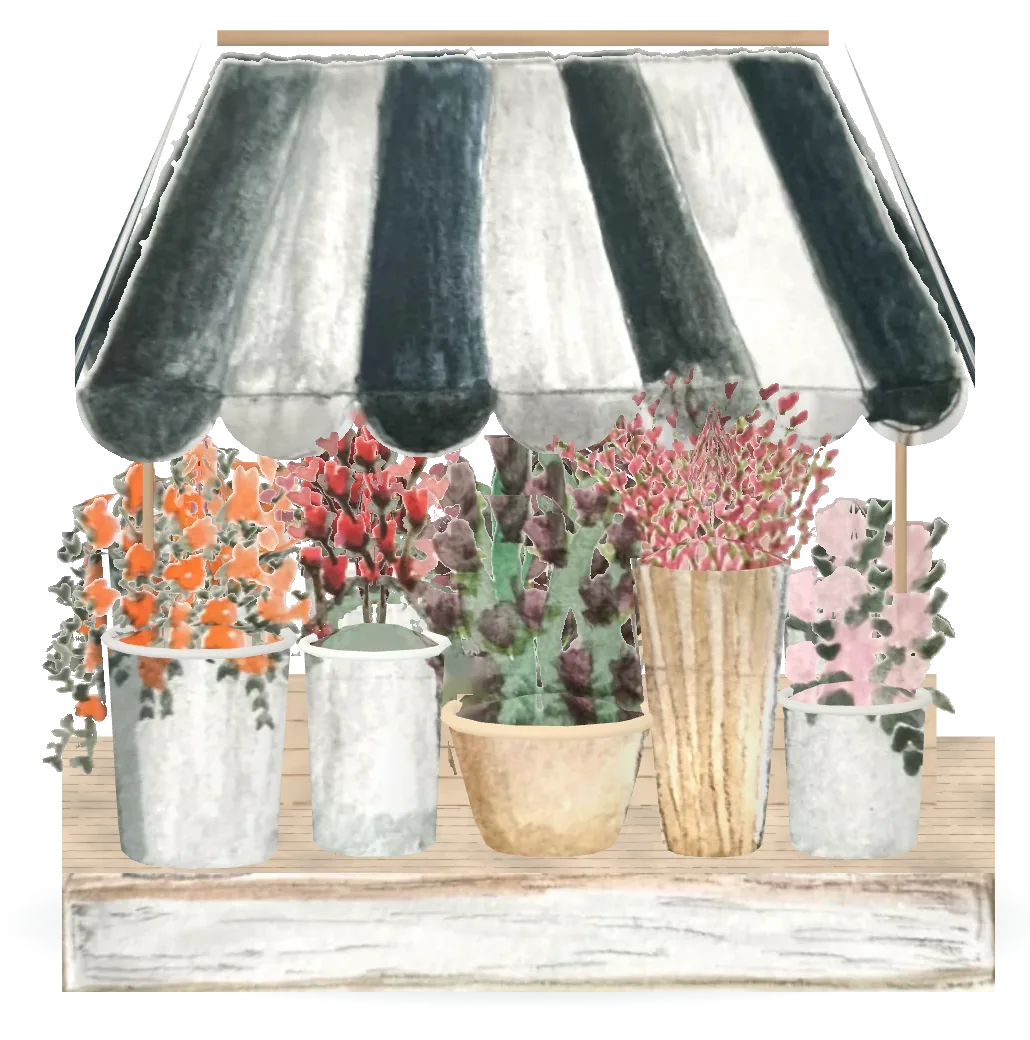
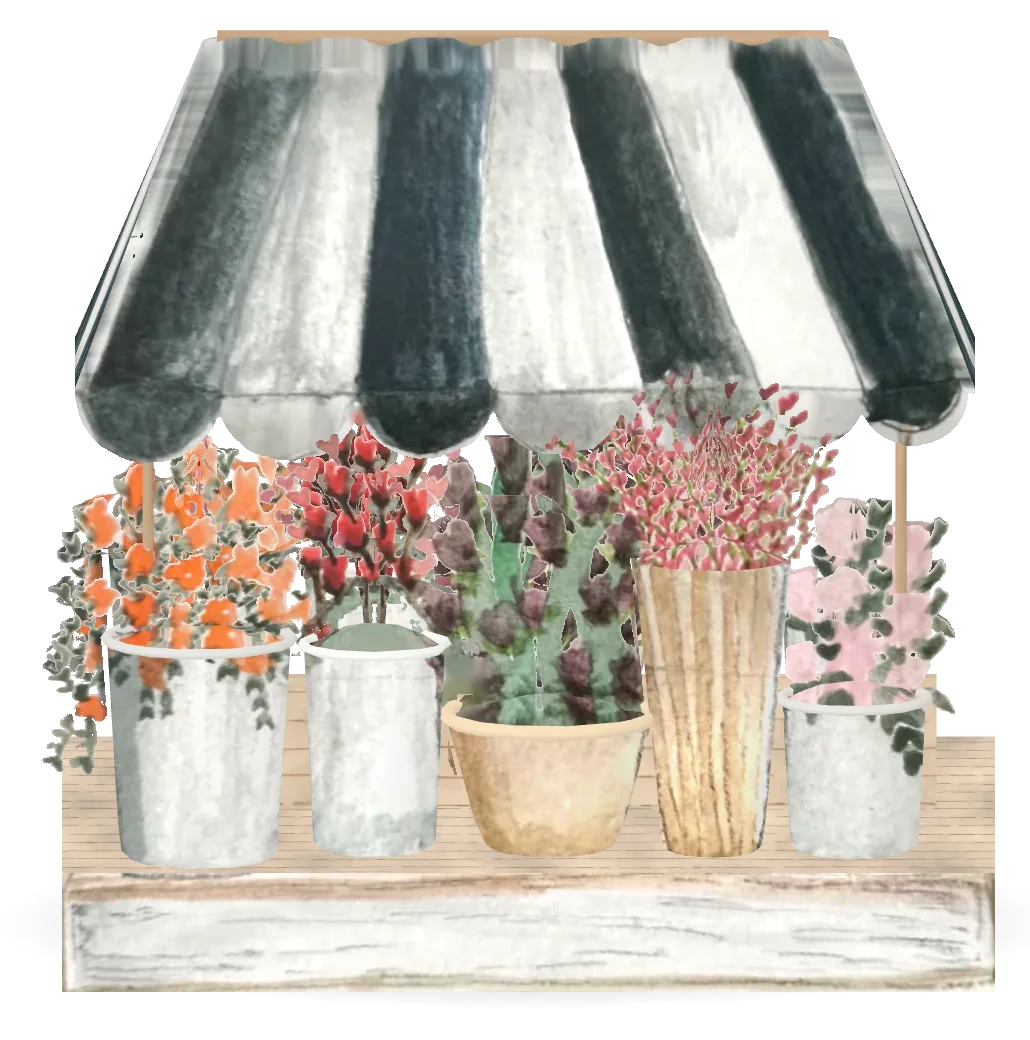
Stall roof: close the gaps between canopy, gables and ridge (v2.1.2)
The painted canopy is narrower than its geometry near the sides and ridge, so
the outer columns and the ridge row sampled transparent paper and a
see-through band opened between the canopy and the gable panels and along
the ridge. Their UVs are now pulled onto the nearest painted texel, so the
edge stripe runs to the gable and the halves meet at the ridge. Poster
re-rendered; cache keys bumped.

Claude-Session: https://claude.ai/code/session_01EeYG9VVV5YV4KB8TGYovVC

diff --git a/js/stall.js b/js/stall.js
@@ -5,8 +5,8 @@
 // (flowers bend from the pot rim, the valance flaps) at 30 fps while the stall is on screen; 60 fps while she touches it.
 
 const ASSET = 'assets/stall/';
-const GLB = new URL('../assets/stall/stall-lite.glb?v=2', import.meta.url).href;
-export const POSTER = ASSET + 'stall-poster.webp?v=2';
+const GLB = new URL('../assets/stall/stall-lite.glb?v=3', import.meta.url).href;
+export const POSTER = ASSET + 'stall-poster.webp?v=3';
 const PREF_KEY = 'cornelieur.stall';          // 'auto' | '3d' | '2d'
 const SLOW_KEY = 'cornelieur.stall.slow';     // set when this device struggled with 3D
 
